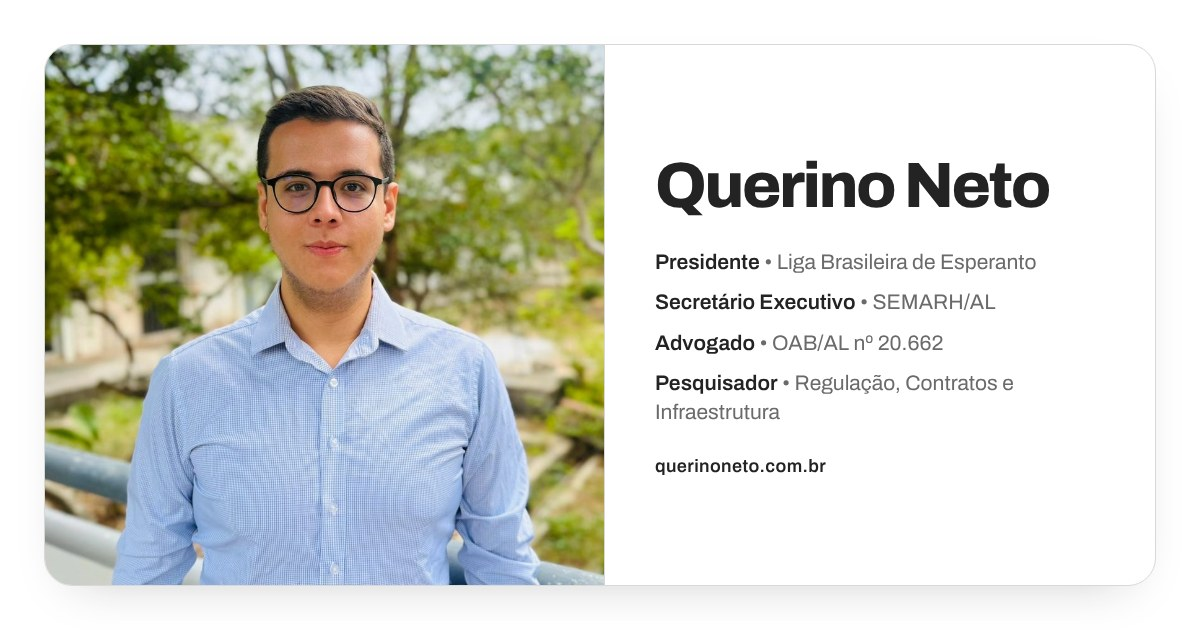
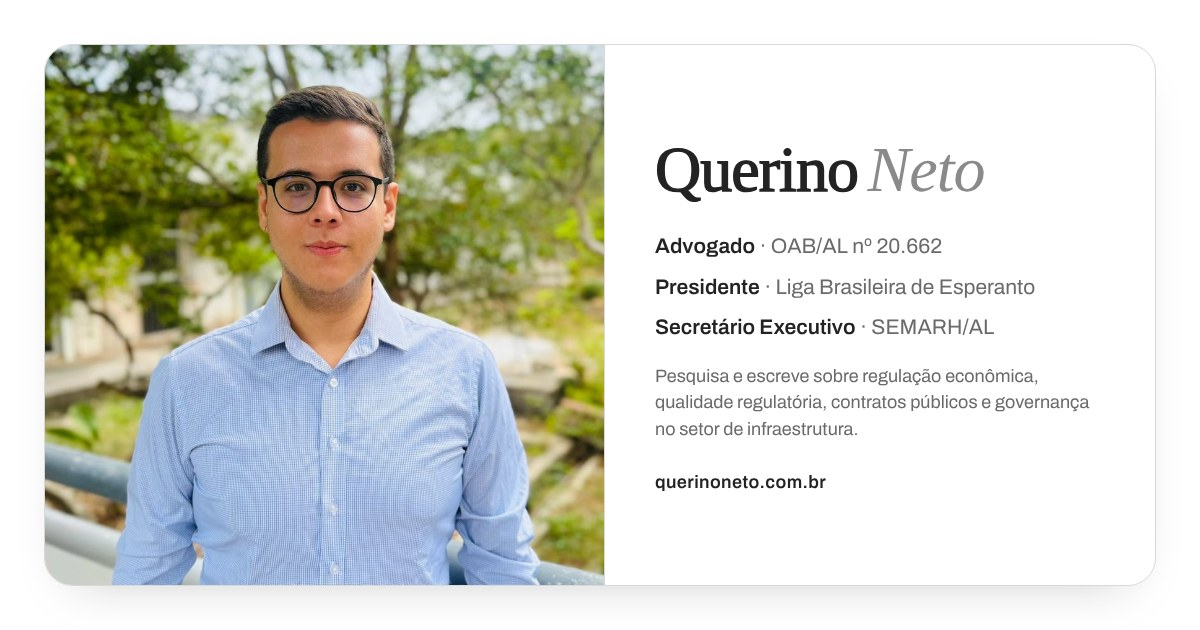
Cargos (Advogado, Presidente, Secretário Executivo) e frase sobre a pesquisa
Sai a linha "Pesquisador"; entra, abaixo dos cargos, a frase "Pesquisa e
escreve sobre regulação econômica, qualidade regulatória, contratos
públicos e governança no setor de infraestrutura." Descrição para o
Google, dados estruturados e imagem de compartilhamento atualizados.

Claude-Session: https://claude.ai/code/session_01ELp6jEE8sopRKe9g1f2sxY

Changed region(s): [[0.5242, 0.2111, 0.925, 0.6937], [0.5242, 0.7238, 0.7092, 0.7841]]

diff --git a/index.html b/index.html
@@ -4,7 +4,7 @@
 <meta charset="utf-8">
 <meta name="viewport" content="width=device-width, initial-scale=1">
 <title>Querino Neto</title>
-<meta name="description" content="José Querino de Macêdo Neto: Presidente da Liga Brasileira de Esperanto, Secretário Executivo da Secretaria de Estado do Meio Ambiente e dos Recursos Hídricos de Alagoas, advogado (OAB/AL nº 20.662) e pesquisador em Regulação, Contratos e Infraestrutura.">
+<meta name="description" content="José Querino de Macêdo Neto: advogado (OAB/AL nº 20.662), Presidente da Liga Brasileira de Esperanto e Secretário Executivo da Secretaria de Estado do Meio Ambiente e dos Recursos Hídricos de Alagoas. Pesquisa e escreve sobre regulação econômica, qualidade regulatória, contratos públicos e governança no setor de infraestrutura.">
 <link rel="canonical" href="https://querinoneto.com.br/">
 <meta name="robots" content="index, follow, max-image-preview:large">
 <meta name="author" content="José Querino de Macêdo Neto">
@@ -27,9 +27,9 @@
     "Presidente da Liga Brasileira de Esperanto",
     "Secretário Executivo da Secretaria de Estado do Meio Ambiente e dos Recursos Hídricos de Alagoas",
     "Advogado",
-    "Pesquisador em Regulação, Contratos e Infraestrutura"
+    "Pesquisador em regulação econômica, contratos públicos e governança em infraestrutura"
    ],
-   "description": "Presidente da Liga Brasileira de Esperanto, Secretário Executivo da SEMARH/AL, advogado (OAB/AL nº 20.662) e pesquisador em Regulação, Contratos e Infraestrutura.",
+   "description": "Advogado (OAB/AL nº 20.662), Presidente da Liga Brasileira de Esperanto e Secretário Executivo da SEMARH/AL. Pesquisa regulação econômica, contratos públicos e governança em infraestrutura.",
    "url": "https://querinoneto.com.br/",
    "image": "https://querinoneto.com.br/assets/querino-neto-foto.jpg",
    "email": "mailto:contato@querinoneto.com.br",
@@ -134,11 +134,12 @@
     }
    ],
    "knowsAbout": [
-    "Regulação",
-    "Contratos",
+    "Regulação econômica",
+    "Qualidade regulatória",
+    "Contratos públicos",
+    "Governança",
     "Infraestrutura",
     "Direito",
-    "Meio ambiente",
     "Esperanto"
    ]
   },
@@ -179,7 +180,7 @@
 <meta property="og:site_name" content="Querino Neto">
 <meta property="og:url" content="https://querinoneto.com.br/">
 <meta property="og:title" content="Querino Neto">
-<meta property="og:description" content="Presidente da Liga Brasileira de Esperanto, Secretário Executivo da SEMARH/AL, advogado (OAB/AL nº 20.662) e pesquisador em Regulação, Contratos e Infraestrutura.">
+<meta property="og:description" content="Advogado (OAB/AL nº 20.662), Presidente da Liga Brasileira de Esperanto e Secretário Executivo da SEMARH/AL. Pesquisa regulação econômica, contratos públicos e governança em infraestrutura.">
 <meta property="og:image" content="https://querinoneto.com.br/assets/compartilhar.jpg">
 <meta property="og:image:width" content="1200">
 <meta property="og:image:height" content="630">
@@ -190,7 +191,7 @@
 <meta name="twitter:card" content="summary_large_image">
 <meta name="twitter:site" content="@querinoneto">
 <meta name="twitter:title" content="Querino Neto">
-<meta name="twitter:description" content="Presidente da Liga Brasileira de Esperanto, Secretário Executivo da SEMARH/AL, advogado (OAB/AL nº 20.662) e pesquisador em Regulação, Contratos e Infraestrutura.">
+<meta name="twitter:description" content="Advogado (OAB/AL nº 20.662), Presidente da Liga Brasileira de Esperanto e Secretário Executivo da SEMARH/AL. Pesquisa regulação econômica, contratos públicos e governança em infraestrutura.">
 <meta name="twitter:image" content="https://querinoneto.com.br/assets/compartilhar.jpg">
 <link rel="preconnect" href="https://fonts.googleapis.com">
 <link rel="preconnect" href="https://fonts.gstatic.com" crossorigin>
@@ -410,7 +411,7 @@ h1.name { font: italic 400 clamp(2.4rem, 3.4vw, 3.2rem)/1.05 var(--serif); lette
 }
 /* Computador: cartão mais largo; os cargos se ajustam para a linha da Secretaria caber inteira */
 @media (min-width: 861px) {
-  .card { max-width: min(1000px, calc((100dvh - 365px) * 1.837)); min-width: min(600px, 100%); }
+  .card { max-width: min(1000px, calc((100dvh - 400px) * 1.837)); min-width: min(600px, 100%); }
   .idb { padding: 1.5rem 2.5rem .15rem; }
   .copy { padding: .9rem 2.5rem 1.85rem; container-type: inline-size; }
   .copy { --t: min(1.05rem, calc(100cqi / 45.5)); }
@@ -433,6 +434,21 @@ h1.name b, .sheet-head h2 b { color: var(--ink); }
 /* Cantos retos em tudo, exceto os cantos de cima da foto */
 .card, .card[class] { border-radius: 20px 20px 0 0 !important; }
 .sheet { border-radius: 0; }
+
+/* Linha de pesquisa: frase corrida abaixo dos cargos */
+.bio { margin-top: .75rem; font-size: inherit; line-height: 1.5; color: var(--mute); max-width: 46rem; }
+@media (min-width: 861px) { .bio { font-size: var(--t); margin-top: .8rem; } }
+@media (max-width: 860px) { .bio { font-size: .92rem; margin-top: .6rem; } }
+@media (max-width: 420px) and (max-height: 640px) { .bio { font-size: .85rem; margin-top: .45rem; } }
+@media (min-width: 861px) and (max-height: 800px) {
+  .card { max-width: min(1000px, calc((100dvh - 330px) * 1.837)); }
+  .idb { padding-top: 1rem; }
+  .idb h1.name { font-size: 2.2rem; }
+  .copy { padding-top: .6rem; padding-bottom: 1.2rem; }
+  .creds { gap: .2rem; }
+  .bio { margin-top: .5rem; line-height: 1.4; }
+  .copy .links { margin-top: .9rem; }
+}
 </style>
 </head>
 <body>
@@ -452,9 +468,9 @@ h1.name b, .sheet-head h2 b { color: var(--ink); }
       <div class="creds">
         <p><b data-i18n="r3">Advogado</b><span class="dot"> · </span><span data-i18n="o3">OAB/AL nº 20.662</span></p>
         <p><b data-i18n="r1">Presidente</b><span class="dot"> · </span><span data-i18n="o1">Liga Brasileira de Esperanto</span></p>
-        <p><b data-i18n="r4">Pesquisador</b><span class="dot"> · </span><span data-i18n="o4">Regulação, Contratos e Infraestrutura</span></p>
         <p><b data-i18n="r2">Secretário Executivo</b><span class="dot"> · </span><span data-i18n="o2">Secretaria de Estado do Meio Ambiente e dos Recursos Hídricos de Alagoas</span></p>
       </div>
+      <p class="bio">Pesquisa e escreve sobre regulação econômica, qualidade regulatória, contratos públicos e governança no setor de infraestrutura.</p>
       <nav class="links" data-i18n-aria="links" aria-label="Contato e redes sociais">
         <button class="lk primary" type="button" id="openForm"><span data-i18n="open">Enviar mensagem</span> <span class="ar" aria-hidden="true">→</span></button>
         <div class="social">
